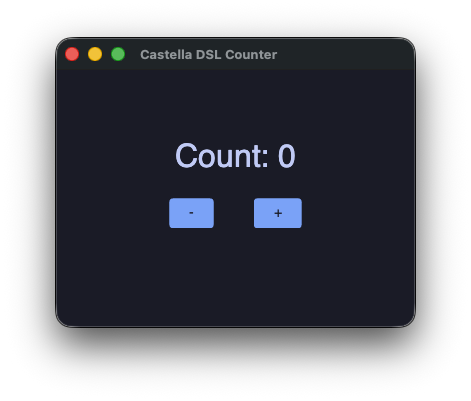
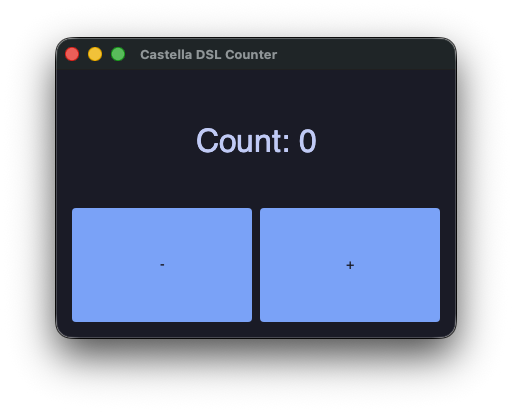
docs: remove filler spacers from demos and add style composition example
EXPANDING default makes spacers unnecessary for centering. Remove
bare spacer / fixed_height / fixed_width fillers from counter demos
across README, docs, and examples. Replace with column/row spacing
parameter. Also remove fixed button widths.

Add Style Composition section to README with screenshot, and
reorganize Castella UI section with DSL / Reactive State / Style
Composition subheadings. Update counter screenshot.

Changed region(s): [[0.0892, 0.0898, 0.8917, 0.8379], [0.3567, 0.2993, 0.6242, 0.419]]

diff --git a/examples/castella_ui/dsl_counter_demo.rb b/examples/castella_ui/dsl_counter_demo.rb
@@ -2,9 +2,9 @@
 #
 # Same counter as framework_counter.rb, but using the block-based DSL.
 # Demonstrates:
-# - column/row/text/button/spacer DSL functions
-# - Keyword arguments for styling (padding:, font_size:, color:, align:, etc.)
-# - button(label, width: 80.0) { block } for inline click handlers
+# - column/row/text/button DSL functions
+# - Keyword arguments for styling (padding:, spacing:, font_size:, color:, align:, etc.)
+# - button(label) { block } for inline click handlers
 # - Reactive State with auto-rebuild
 #
 # Run: cd examples/castella_ui && bash run.sh dsl_counter_demo.rb
@@ -24,18 +24,12 @@ class DslCounterComponent < Component
   end
 
   def view
-    column(padding: 16.0) {
-      spacer
+    column(padding: 16.0, spacing: 8.0) {
       text "Count: #{@count}", font_size: 32.0, color: 0xFFC0CAF5, align: :center
-      spacer.fixed_height(24.0)
       row(spacing: 8.0) {
-        spacer
-        button(" - ", width: 80.0) { @count -= 1 }
-        spacer.fixed_width(24.0)
-        button(" + ", width: 80.0) { @count += 1 }
-        spacer
+        button(" - ") { @count -= 1 }
+        button(" + ") { @count += 1 }
       }
-      spacer
     }
   end
 end

diff --git a/examples/castella_ui/native_dsl_counter_demo.rb b/examples/castella_ui/native_dsl_counter_demo.rb
@@ -15,18 +15,12 @@ class DslCounterComponent < Component
   end
 
   def view
-    column(padding: 16.0) {
-      spacer
+    column(padding: 16.0, spacing: 8.0) {
       text "Count: #{@count}", font_size: 32.0, color: 0xFFC0CAF5, align: :center
-      spacer.fixed_height(24.0)
       row(spacing: 8.0) {
-        spacer
-        button(" - ", width: 80.0) { @count -= 1 }
-        spacer.fixed_width(24.0)
-        button(" + ", width: 80.0) { @count += 1 }
-        spacer
+        button(" - ") { @count -= 1 }
+        button(" + ") { @count += 1 }
       }
-      spacer
     }
   end
 end

diff --git a/examples/castella_ui/framework_counter.rb b/examples/castella_ui/framework_counter.rb
@@ -32,21 +32,15 @@ class CounterComponent < Component
     label = "Count: " + @count.value.to_s
 
     Column(
-      Spacer(),
       Text(label).font_size(32).color(0xFFC0CAF5).align(TEXT_ALIGN_CENTER),
-      Spacer().fixed_height(24.0),
       Row(
-        Spacer(),
         Button("  -  ").font_size(24).on_click {
           @count -= 1
         },
-        Spacer().fixed_width(24.0),
         Button("  +  ").font_size(24).on_click {
           @count += 1
-        },
-        Spacer()
-      ).fixed_height(60.0),
-      Spacer()
+        }
+      )
     )
   end
 end

diff --git a/examples/castella_ui/native_counter.rb b/examples/castella_ui/native_counter.rb
@@ -19,21 +19,15 @@ class CounterComponent < Component
     label = "Count: " + @count.value.to_s
 
     Column(
-      Spacer(),
       Text(label).font_size(32).color(0xFFC0CAF5).align(TEXT_ALIGN_CENTER),
-      Spacer().fixed_height(24.0),
       Row(
-        Spacer(),
         Button("  -  ").font_size(24).on_click {
           @count -= 1
         },
-        Spacer().fixed_width(24.0),
         Button("  +  ").font_size(24).on_click {
           @count += 1
-        },
-        Spacer()
-      ).fixed_height(60.0),
-      Spacer()
+        }
+      )
     )
   end
 end

diff --git a/docs/positioning.md b/docs/positioning.md
@@ -1,0 +1,111 @@
+# Konpeito ポジショニング分析
+
+## Konpeito とは何か
+
+Ruby の漸進的型付け AOT コンパイラ。CRuby エコシステム（LLVM → .so）と Java エコシステム（JVM → .jar）の両方にアクセスできる。Castella UI フレームワーク付き。
+
+**漸進的型付け（Gradual Typing）:** 型注釈なしでも HM 型推論が自動的に型を特定し、特定できない場合は動的ディスパッチにフォールバックする。RBS 型注釈を追加することで段階的に最適化を強化できる。TypeScript が JavaScript に対して果たす役割に近い。
+
+## エコシステムブリッジとしての立ち位置
+
+```
+           CRuby エコシステム
+               ↑
+          CRuby 拡張 (.so)
+               ↑
+    Ruby ソースコード → Konpeito
+               ↓
+          JVM バイトコード (.jar)
+               ↓
+           Java エコシステム
+```
+
+- **LLVM バックエンド** → 既存の Rails アプリのホットパスだけ高速化して `.so` で差し込める
+- **JVM バックエンド** → Java の膨大なライブラリ資産（JWM, Skija, その他何でも）にアクセスできる
+- **どちらも Ruby のまま**書ける
+
+二つの巨大エコシステムへの橋。Ruby エコシステムには既に JRuby（JVM）、Glimmer（デスクトップ GUI）、FFI gem（ネイティブ連携）等の既存ブリッジがあるが、Konpeito は AOT コンパイル + HM 型推論という異なるアプローチで同じ領域に取り組む。
+
+## Crystal との違い
+
+Crystal は「Ruby を捨てて新しい世界に行く」選択。Konpeito は「Ruby のまま両方の世界にアクセスする」選択。解決する問題が根本的に違う。
+
+| 観点 | Crystal | Konpeito |
+|------|---------|----------|
+| 言語 | Ruby 風だが別言語 | Ruby そのもの（静的サブセット） |
+| CRuby エコシステム | 使えない | CRuby 拡張 (.so) として統合可能 |
+| Java エコシステム | 使えない | JVM バックエンドで全ライブラリにアクセス可能 |
+| 既存 Ruby プロジェクト | 統合不可 | ホットパスだけ差し替え可能 |
+| gem / C 拡張 | 使えない | CRuby 拡張として共存可能 |
+| 移行コスト | ゼロから作り直し | 既存 Ruby コードを段階的にコンパイル可能 |
+
+## Kotlin Multiplatform との比較（デスクトップアプリ）
+
+Konpeito + Castella UI は、クロスプラットフォームデスクトップアプリを最もシンプルに書ける選択肢の一つ。
+
+```ruby
+# Konpeito + Castella DSL: カウンターアプリ
+class CounterApp < Component
+  def initialize
+    super
+    @count = state(0)
+  end
+
+  def view
+    column(padding: 16.0, spacing: 8.0) {
+      text "Count: #{@count}", font_size: 32.0, align: :center
+      row(spacing: 8.0) {
+        button(" - ") { @count -= 1 }
+        button(" + ") { @count += 1 }
+      }
+    }
+  end
+end
+```
+
+| | Konpeito + Castella | Kotlin Compose | Electron | Tauri |
+|--|---|---|---|---|
+| 言語の簡潔さ | Ruby | Kotlin | JS/TS | Rust + JS |
+| ビルドの手軽さ | 簡単 | Gradle... | 普通 | 普通 |
+| バイナリサイズ | JAR サイズ | 同程度 | 巨大 | 小 |
+| GPU 描画 | Skia | Skia | Chromium | WebView |
+| 学習コスト | 低 | 高 | 中 | 高 |
+
+## Python 版を作る意味はあるか
+
+**ない。** Python エコシステムには既に各領域に成熟したツールが存在する。
+
+| 領域 | Python（既存ツール） | Ruby（既存ツール） |
+|------|---------------------|-------------------|
+| AOT コンパイラ | Cython, mypyc, Numba, Nuitka | **なし → Konpeito** |
+| JVM 実装 | Jython, GraalPy | JRuby（インタプリタ、AOT ではない） |
+| 宣言的ネイティブ GUI | Castella（Python 版が既に同品質で動作中） | **なし → Konpeito + Castella UI** |
+
+Konpeito の価値は「Ruby エコシステムの空白を埋めている」ことに大きく依存しており、Python にはその空白がそもそも存在しない。
+
+## 強み
+
+- **アプローチの独自性**: 同じ AOT + 型駆動アプローチのツールが Ruby エコシステムにない
+- **エコシステムブリッジ**: CRuby と JVM の両方に Ruby のままアクセスできる（JRuby や Glimmer 等の既存ブリッジとはアプローチが異なる）
+- **Castella UI**: Ruby でデスクトップアプリが現実的に書ける。Kotlin Multiplatform より学習コストが低い
+- **段階的導入**: 既存 Rails アプリのホットパスだけ `.so` に差し替える、という使い方が可能
+- **AI 駆動開発**: 開発の大部分を AI が担当しており、保守の持続性リスクが軽減される
+
+## 弱み
+
+- **市場規模**: Ruby 人口自体が縮小傾向。ネイティブ性能やデスクトップアプリを必要とする層はさらに小さい
+- **YJIT との競合**: Ruby 4.0 の YJIT 進化により「Ruby のままで十分速い」ケースが増加中
+- **サブセット制約**: eval / define_method / method_missing が使えない
+
+## 総合評価
+
+| 観点 | 評価 |
+|------|------|
+| 技術 | 高い。コンパイラとして真っ当に作られている |
+| 独自性 | 高い。同じアプローチのツールが存在しない |
+| 実用性 | 中〜高。CRuby 拡張用途は今すぐ使える |
+| 市場規模 | 小さい。ただしニッチに確実な需要はある |
+| 持続性 | AI 活用で現実的 |
+| 将来性 | Castella UI と JVM エコシステム連携次第で化ける可能性あり |
+
+**一言で言うと:** ニッチだが、同じアプローチの代替がない。既存ブリッジ（JRuby, Glimmer 等）とは異なる方法で同じ問題に取り組んでおり、AOT + 型駆動最適化という選択肢を Ruby エコシステムに加える。

diff --git a/README.md b/README.md
@@ -135,7 +135,11 @@ The JVM backend supports seamless Java interop — call Java libraries directly 
 
 ## Castella UI
 
-A reactive GUI framework for the JVM backend, powered by [JWM](https://github.com/nicenote/jwm) + [Skija](https://github.com/nicenote/skija). Ruby's block syntax becomes a beautiful UI DSL — layouts nest naturally, just like your markup would, but with the full power of Ruby.
+A reactive GUI framework for the JVM backend, powered by [JWM](https://github.com/nicenote/jwm) + [Skija](https://github.com/nicenote/skija).
+
+### DSL
+
+Ruby's block syntax becomes a UI DSL — `column`, `row`, `text`, `button` etc. nest naturally with keyword arguments. A plain Ruby method is a reusable component.
 
 <p align="center">
   <img src="docs/screenshots/dashboard.png" alt="Analytics Dashboard" width="720" />
@@ -179,7 +183,9 @@ def kpi_card(label, value, change, color)
 end
 ```
 
-Reactive state is built in — `state(0)` creates an observable value, and the UI re-renders automatically when it changes:
+### Reactive State
+
+`state(0)` creates an observable value, and the UI re-renders automatically when it changes:
 
 <p align="center">
   <img src="docs/screenshots/counter.png" alt="Counter App" width="320" />
@@ -193,23 +199,36 @@ class Counter < Component
   end
 
   def view
-    column(padding: 16.0) {
-      spacer
+    column(padding: 16.0, spacing: 8.0) {
       text "Count: #{@count}", font_size: 32.0, align: :center
-      spacer.fixed_height(24.0)
       row(spacing: 8.0) {
-        spacer
-        button(" - ", width: 80.0) { @count -= 1 }
-        button(" + ", width: 80.0) { @count += 1 }
-        spacer
+        button(" - ") { @count -= 1 }
+        button(" + ") { @count += 1 }
       }
-      spacer
     }
   end
 end
 ```
 
-An OOP-style API (`Column(...)`, `Row(...)`) is also available. Widgets include `Text`, `Button`, `TextInput`, `MultilineText`, `Column`, `Row`, `Image`, `Checkbox`, `Slider`, `ProgressBar`, `Tabs`, `DataTable`, `TreeView`, `BarChart`, `LineChart`, `PieChart`, `Markdown`, and more.
+An OOP-style API (`Column(...)`, `Row(...)`) is also available. Available widgets: `Text`, `Button`, `TextInput`, `MultilineText`, `Column`, `Row`, `Image`, `Checkbox`, `Slider`, `ProgressBar`, `Tabs`, `DataTable`, `TreeView`, `BarChart`, `LineChart`, `PieChart`, `Markdown`, and more.
+
+### Style Composition
+
+Styles are first-class objects — store them in variables and compose with `+`:
+
+<p align="center">
+  <img src="docs/screenshots/style_composition.png" alt="Style Composition" width="480" />
+</p>
+
+```ruby
+card = Style.new.bg_color($theme.bg_primary).border_radius(10.0).padding(16.0)
+green_card = card + Style.new.border_color($theme.success)
+
+column(spacing: 12.0) {
+  container(card)       { text "Default card" }
+  container(green_card) { text "Green border variant" }
+}
+```
 
 ## Performance
 

diff --git a/docs/castella-ui.md b/docs/castella-ui.md
@@ -485,9 +485,8 @@ Container functions (`column`, `row`, `box`, `container`) take a block and auto-
 column(padding: 16.0) {
   text "Count: #{@count}", font_size: 32.0, color: 0xFFC0CAF5, align: :center
   row(spacing: 8.0) {
-    button(" - ", width: 80.0) { @count -= 1 }
-    spacer
-    button(" + ", width: 80.0) { @count += 1 }
+    button(" - ") { @count -= 1 }
+    button(" + ") { @count += 1 }
   }
 }
 ```
@@ -540,21 +539,15 @@ class CounterComponent < Component
     label = "Count: " + count.value.to_s
 
     Column(
-      Spacer(),
       Text(label).font_size(32).color(0xFFC0CAF5).align(TEXT_ALIGN_CENTER),
-      Spacer().fixed_height(24.0),
       Row(
-        Spacer(),
         Button("  -  ").font_size(24).on_click {
           count.set(count.value - 1)
         },
-        Spacer().fixed_width(24.0),
         Button("  +  ").font_size(24).on_click {
           count.set(count.value + 1)
-        },
-        Spacer()
-      ).fixed_height(60.0),
-      Spacer()
+        }
+      )
     )
   end
 end
